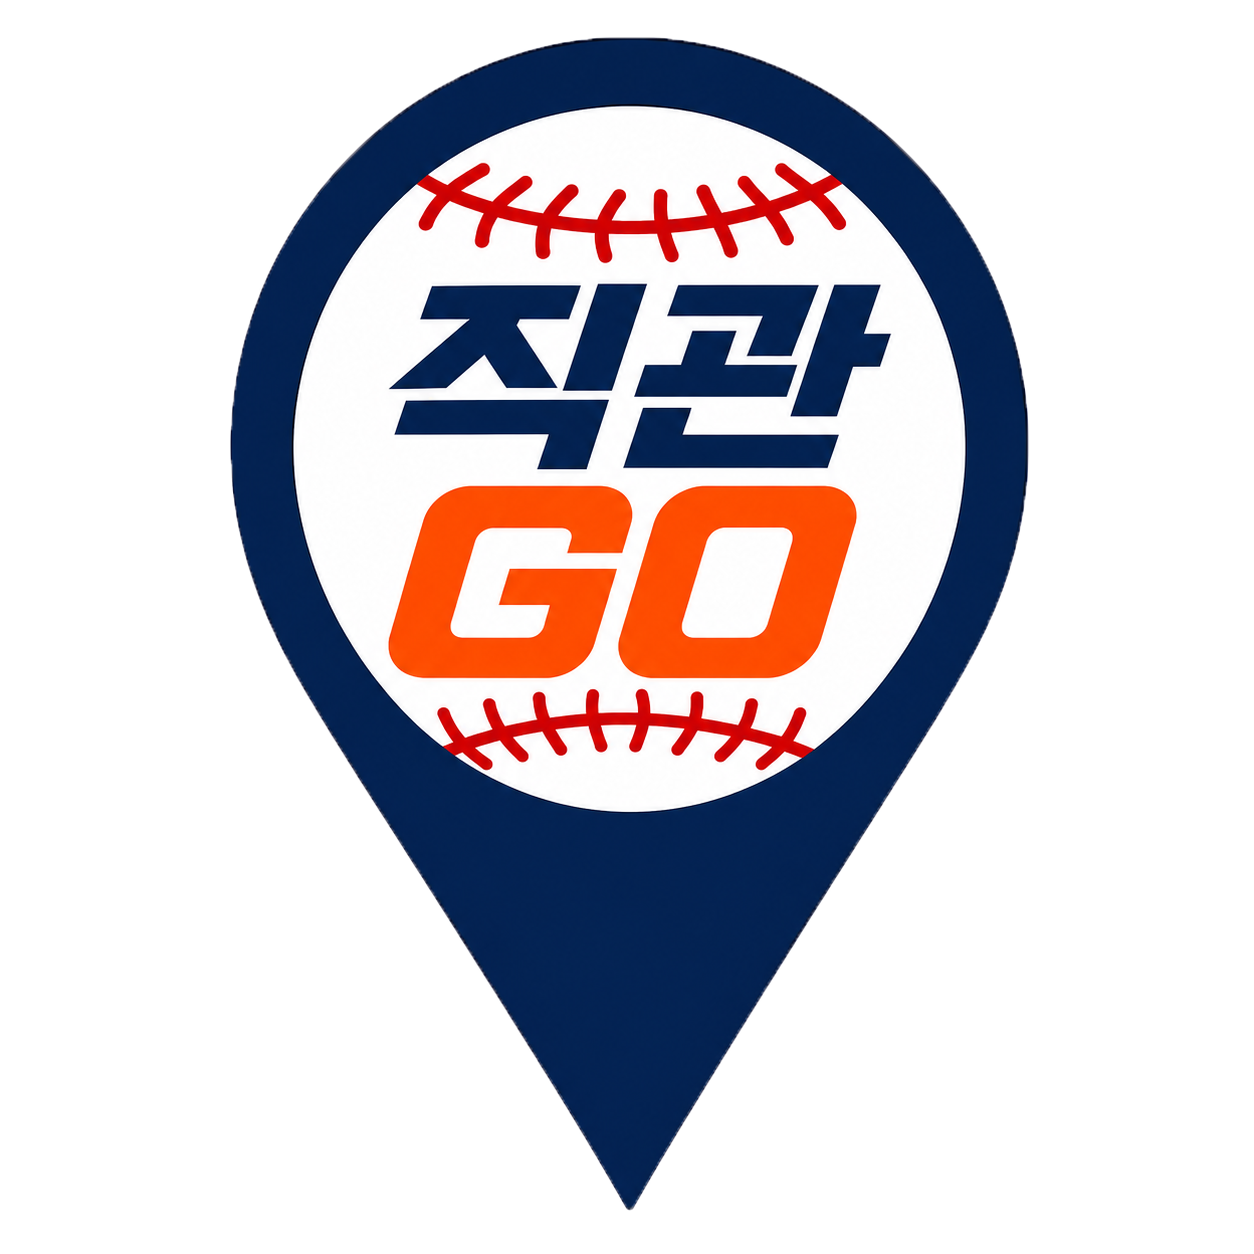
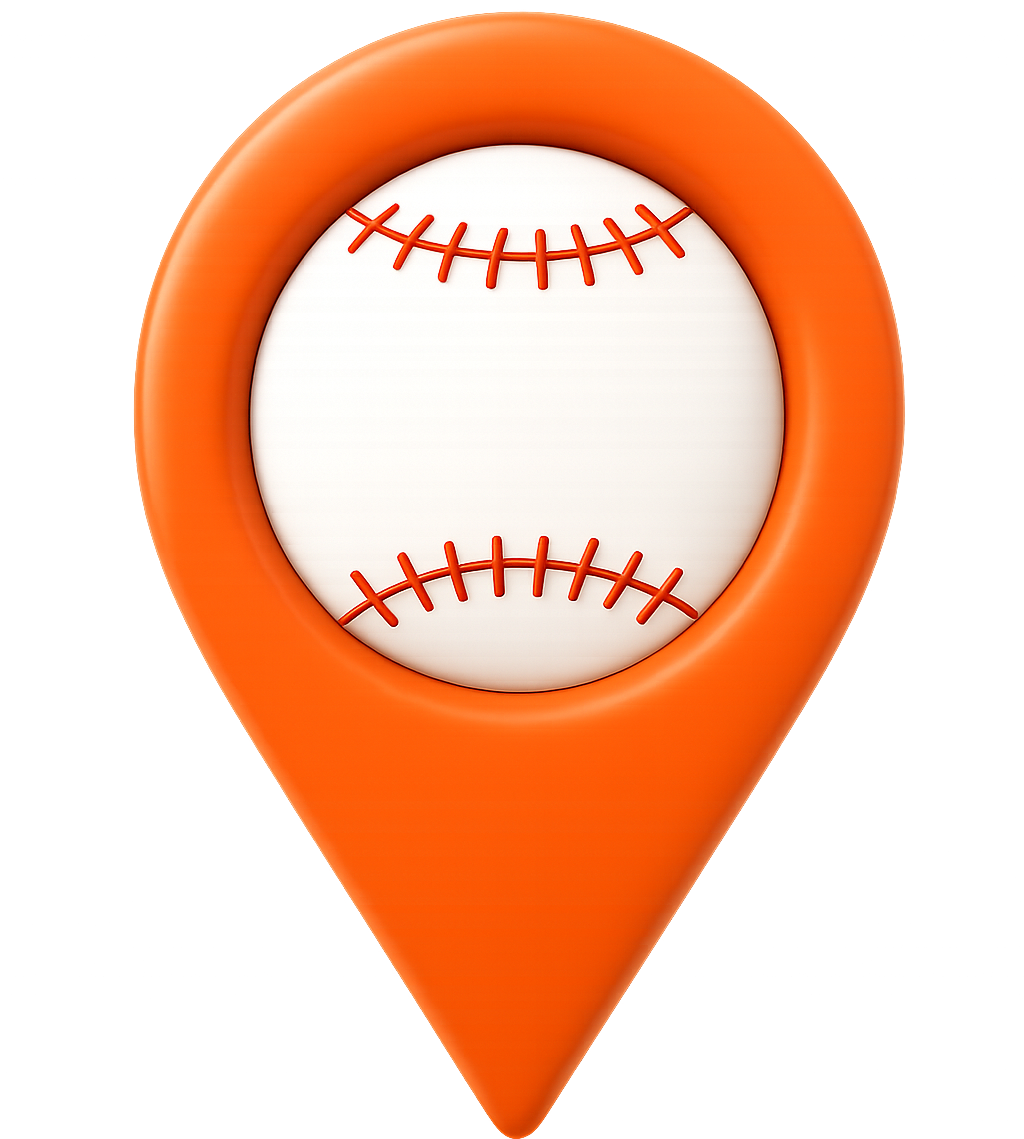
feat : 구장 안내 페이지 지도 띄우기 -> 핀 이미지 변경

diff --git a/src/features/stadiums/map/StadiumMap.tsx b/src/features/stadiums/map/StadiumMap.tsx
@@ -18,53 +18,52 @@ type StadiumMapProps = {
 };
 
 const StadiumMap = ({ stadiumData }: StadiumMapProps) => {
-  // const mapRef = useRef<HTMLDivElement>(null);
+  const mapRef = useRef<HTMLDivElement>(null);
 
-  // useEffect(() => {
-  //   if (!window.kakao || !mapRef.current) {
-  //     console.log("카카오 SDK 또는 mapRef 없음");
-  //     return;
-  //   }
+  useEffect(() => {
+    if (!window.kakao || !mapRef.current) {
+      console.log("카카오 SDK 또는 mapRef 없음");
+      return;
+    }
 
-  //   const lat = Number(stadiumData.map?.lat);
-  //   const lng = Number(stadiumData.map?.lng);
+    const lat = Number(stadiumData.map?.lat);
+    const lng = Number(stadiumData.map?.lng);
 
-  //   console.log("위도 경도:", lat, lng);
+    console.log("위도 경도:", lat, lng);
 
-  //   if (Number.isNaN(lat) || Number.isNaN(lng)) return;
+    if (Number.isNaN(lat) || Number.isNaN(lng)) return;
 
-  //   window.kakao.maps.load(() => {
-  //     console.log("지도 생성 시작");
+    window.kakao.maps.load(() => {
+      console.log("지도 생성 시작");
 
-  //     const position = new window.kakao.maps.LatLng(lat, lng);
+      const position = new window.kakao.maps.LatLng(lat, lng);
 
-  //     const map = new window.kakao.maps.Map(mapRef.current, {
-  //       center: position,
-  //       level: 3,
-  //     });
+      const map = new window.kakao.maps.Map(mapRef.current, {
+        center: position,
+        level: 3,
+      });
 
-  //     const imageSrc = "/image/map-marker/map-marker.png";
-  //     const imageSize = new window.kakao.maps.Size(52, 64);
-  //     const imageOption = {
-  //       offset: new window.kakao.maps.Point(26, 64),
-  //     };
+      const imageSrc = "/image/map-marker/map-marker.png";
+      const imageSize = new window.kakao.maps.Size(47, 50);
+      const imageOption = {
+        offset: new window.kakao.maps.Point(23, 64),
+      };
 
-  //     const markerImage = new window.kakao.maps.MarkerImage(imageSrc, imageSize, imageOption);
+      const markerImage = new window.kakao.maps.MarkerImage(imageSrc, imageSize, imageOption);
 
-  //     new window.kakao.maps.Marker({
-  //       map,
-  //       position,
-  //       image: markerImage,
-  //     });
-  //   });
-  // }, [stadiumData]);
-
-  // ref={mapRef}
+      new window.kakao.maps.Marker({
+        map,
+        position,
+        image: markerImage,
+      });
+    });
+  }, [stadiumData]);
 
   return (
-    <div className="relative h-45 w-full overflow-hidden rounded-xl md:h-60">
-      <Image src={mapImage} alt="야구장 지도" fill />
-    </div>
+    <div
+      ref={mapRef}
+      className="bg-surface-2 relative h-45 w-full overflow-hidden rounded-xl md:h-60"
+    />
   );
 };
 
